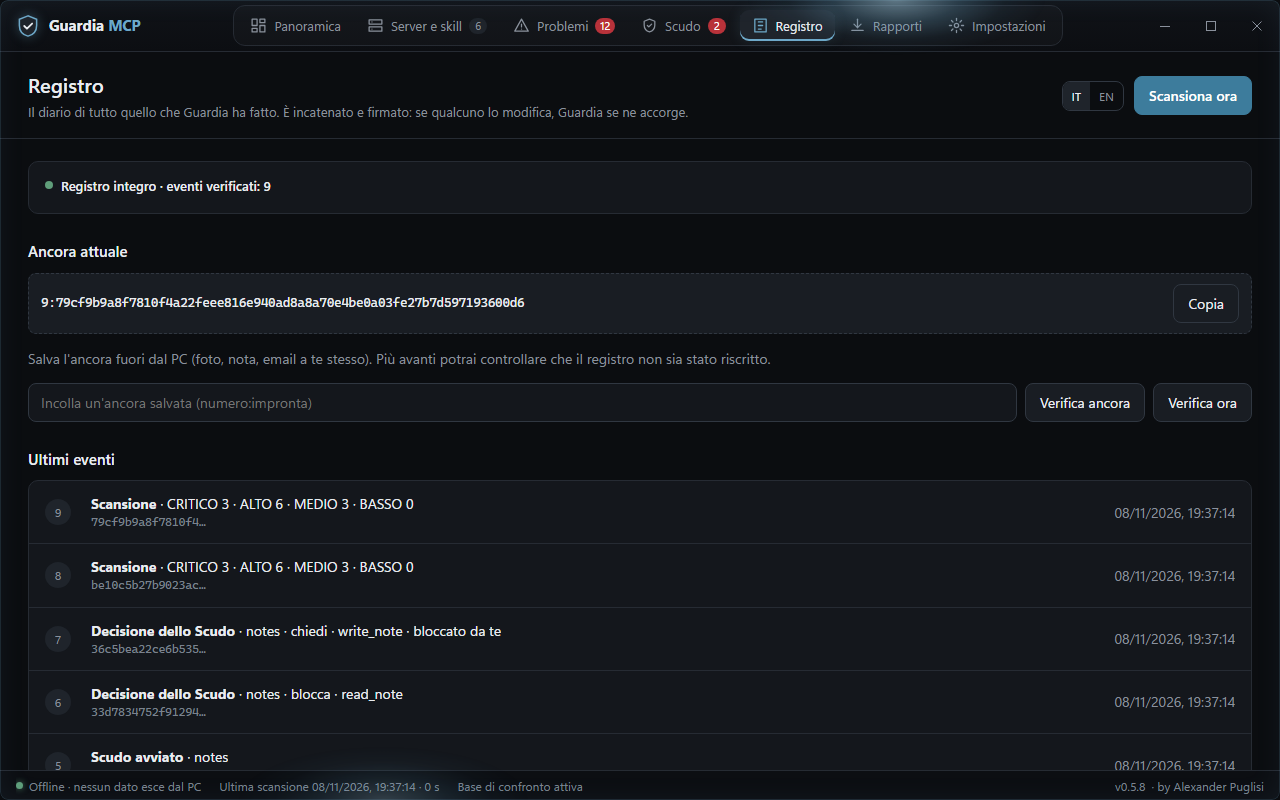
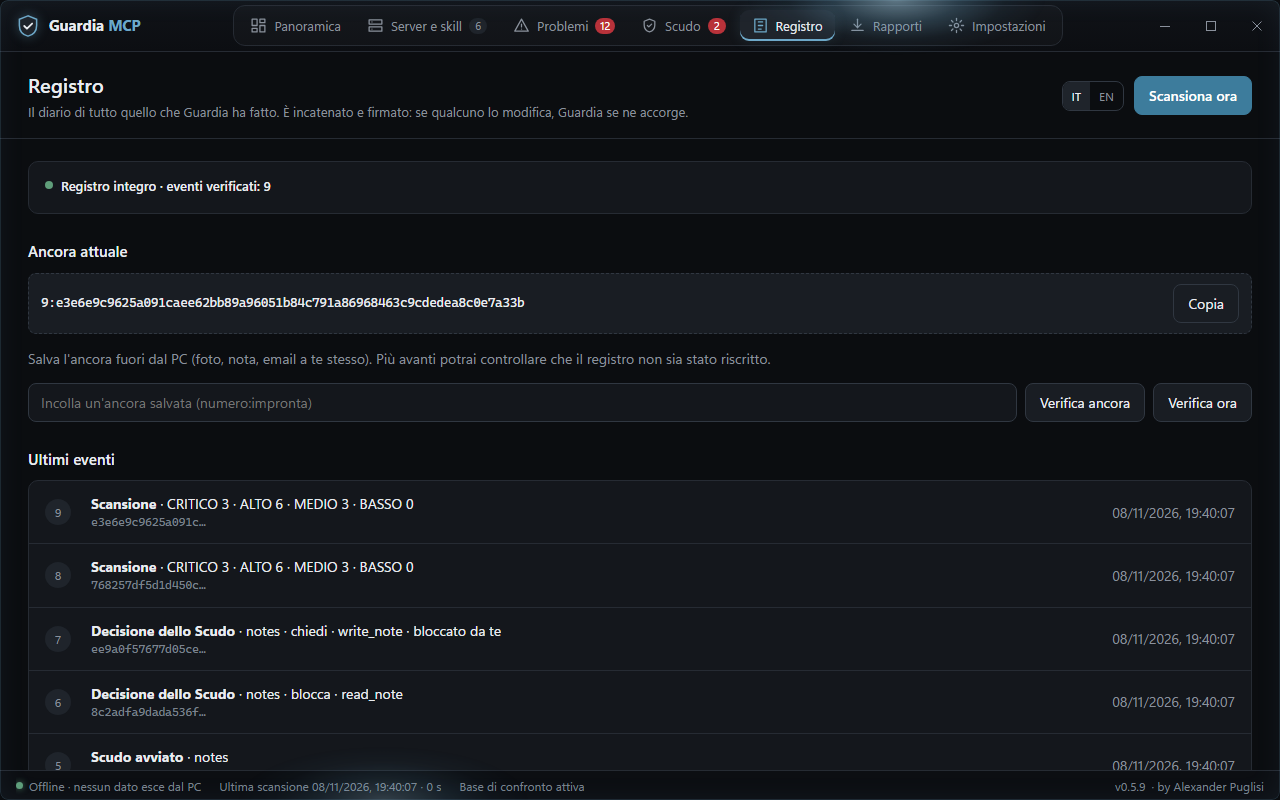
release: 0.5.9 — plain explanation and safe removal (#19)
Bumps the version to 0.5.9 (pyproject, package and uv.lock), adds the
0.5.9 changelog entry and points the README download at the 0.5.9 zip.
The guides' download step still named the 0.2.3 zip, so the check
command failed for anyone who copied it: it now names the 0.5.9 zip.
The guide screenshots and the demo GIFs are rebuilt from fake data, so
the status bar shows the new version.

diff --git a/src/guardia/__init__.py b/src/guardia/__init__.py
@@ -1,1 +1,1 @@
-__version__ = "0.5.8"
+__version__ = "0.5.9"

diff --git a/README.md b/README.md
@@ -40,7 +40,7 @@ asks you first.
 <sub>The demo runs on a fake PC made of fake servers and skills written for the purpose
 (`scripts/demo.py`): no real data, no real secrets.</sub>
 
-**Status: version 0.5.8 — v1 (static analysis) and v2 (real-time Shield for local stdio servers).**
+**Status: version 0.5.9 — v1 (static analysis) and v2 (real-time Shield for local stdio servers).**
 
 - `guardia inventory` — finds the MCP servers and skills configured on this PC in the supported apps
   (Claude Desktop, Claude Code, Cursor, VS Code, Windsurf, Gemini CLI, Codex, Copilot CLI) and lists
@@ -147,7 +147,7 @@ never uses the network). Restore it into a folder of your choice with
 
 Prefer pictures? Follow the [step-by-step guide with screenshots](docs/GUIDE.md).
 
-1. **Download** `GuardiaMCP-0.5.8-windows-x64.zip` and `SHA256SUMS.txt` from the project's
+1. **Download** `GuardiaMCP-0.5.9-windows-x64.zip` and `SHA256SUMS.txt` from the project's
    [**Releases**](https://github.com/AlexanderPuglisi/GuardiaMCP/releases/latest) page on GitHub
    and check the zip: the [guide](docs/GUIDE.md#1-download-and-check) has two PowerShell lines to
    paste, which must print `True`.
@@ -320,7 +320,7 @@ conferma.
 <sub>La demo gira su un PC finto, fatto di server e skill finti scritti apposta
 (`scripts/demo.py`): nessun dato vero, nessun segreto vero.</sub>
 
-**Stato: versione 0.5.8 — v1 (analisi statica) e v2 (Scudo in tempo reale per i server locali stdio).**
+**Stato: versione 0.5.9 — v1 (analisi statica) e v2 (Scudo in tempo reale per i server locali stdio).**
 
 - `guardia inventario` — trova i server MCP e le skill configurati sul PC nelle app supportate
   (Claude Desktop, Claude Code, Cursor, VS Code, Windsurf, Gemini CLI, Codex, Copilot CLI) e li
@@ -435,7 +435,7 @@ Copia il file che crea su una chiavetta o un altro computer: quella è la tua co
 
 Preferisci le foto? Segui la [guida passo passo con le schermate](docs/GUIDA.md).
 
-1. **Scarica** `GuardiaMCP-0.5.8-windows-x64.zip` e `SHA256SUMS.txt` dalla pagina
+1. **Scarica** `GuardiaMCP-0.5.9-windows-x64.zip` e `SHA256SUMS.txt` dalla pagina
    [**Releases**](https://github.com/AlexanderPuglisi/GuardiaMCP/releases/latest) del progetto su
    GitHub e controlla lo zip: nella [guida](docs/GUIDA.md#1-scarica-e-controlla) ci sono due righe
    da incollare in PowerShell, che devono stampare `True`.

diff --git a/CHANGELOG.md b/CHANGELOG.md
@@ -1,5 +1,30 @@
 # Changelog
 
+## 0.5.9 — 8 November 2026
+
+GuardiaMCP explains itself in plain words, and leaving it is as safe as trying it.
+
+**New**
+- The Overview opens with a "What GuardiaMCP is" card: one sentence anyone can follow, and a fold
+  with the longer explanation (what MCP servers are, what Guardia warns about, that everything
+  stays on the computer, how to use and remove it).
+- Settings ends with a "Removing GuardiaMCP" section: numbered steps, the data folder and the
+  program folder with *Copy path*, and a **Prepare removal** button. After a confirmation it removes
+  the Shield from every server it can rewrite and puts the AI apps' settings back as they were,
+  saving a copy of each file first, exactly like `shield disable --all`. Servers protected by hand
+  (TOML or files with comments) are named so they can be restored by hand. If the Shield data of
+  Claude from the Microsoft Store exists, that folder is listed too.
+
+**Security**
+- The new action refuses anything but an explicit confirmation, and new tests check that every
+  protection is undone, that nothing changes when nothing is protected and that a file with
+  comments is left byte-for-byte untouched. The windows' Content Security Policy is unchanged.
+
+**Docs**
+- The README and both guides describe the new removal; the guides gain a removal chapter with a
+  screenshot. The guides' download step named the 0.2.3 zip, so the check command failed for anyone
+  who copied it: it now names the current zip.
+
 ## 0.5.8 — 8 November 2026
 
 A visual release with a safety net under it. Before the report and the windows were redesigned,

diff --git a/docs/GUIDE.md b/docs/GUIDE.md
@@ -13,13 +13,13 @@ No programming needed. You need Windows (tested on Windows 11) and five minutes.
 ## 1. Download and check
 
 1. Open the [**Releases**](https://github.com/AlexanderPuglisi/GuardiaMCP/releases/latest) page and
-   download two files: `GuardiaMCP-0.2.3-windows-x64.zip` and `SHA256SUMS.txt`.
+   download two files: `GuardiaMCP-0.5.9-windows-x64.zip` and `SHA256SUMS.txt`.
 2. Check that the zip is the right one. Open **PowerShell** (Start menu → type `PowerShell` →
    Enter), paste these two lines and press Enter:
 
    ```powershell
    $sum = ((Get-Content "$env:USERPROFILE\Downloads\SHA256SUMS.txt" | Select-String 'windows-x64.zip').Line -split '\s+')[0]
-   (Get-FileHash "$env:USERPROFILE\Downloads\GuardiaMCP-0.2.3-windows-x64.zip").Hash -eq $sum
+   (Get-FileHash "$env:USERPROFILE\Downloads\GuardiaMCP-0.5.9-windows-x64.zip").Hash -eq $sum
    ```
 
    It must print **True**. If it prints `False`, do not open the zip: download it again.

diff --git a/docs/GUIDA.md b/docs/GUIDA.md
@@ -13,13 +13,13 @@ Non serve saper programmare. Ti servono Windows (provato su Windows 11) e cinque
 ## 1. Scarica e controlla
 
 1. Apri la pagina [**Releases**](https://github.com/AlexanderPuglisi/GuardiaMCP/releases/latest) e
-   scarica due file: `GuardiaMCP-0.2.3-windows-x64.zip` e `SHA256SUMS.txt`.
+   scarica due file: `GuardiaMCP-0.5.9-windows-x64.zip` e `SHA256SUMS.txt`.
 2. Controlla che lo zip sia quello giusto. Apri **PowerShell** (menu Start → scrivi `PowerShell` →
    Invio), incolla queste due righe e premi Invio:
 
    ```powershell
    $sum = ((Get-Content "$env:USERPROFILE\Downloads\SHA256SUMS.txt" | Select-String 'windows-x64.zip').Line -split '\s+')[0]
-   (Get-FileHash "$env:USERPROFILE\Downloads\GuardiaMCP-0.2.3-windows-x64.zip").Hash -eq $sum
+   (Get-FileHash "$env:USERPROFILE\Downloads\GuardiaMCP-0.5.9-windows-x64.zip").Hash -eq $sum
    ```
 
    Deve comparire **True**. Se compare `False`, non aprire lo zip: scaricalo di nuovo.
